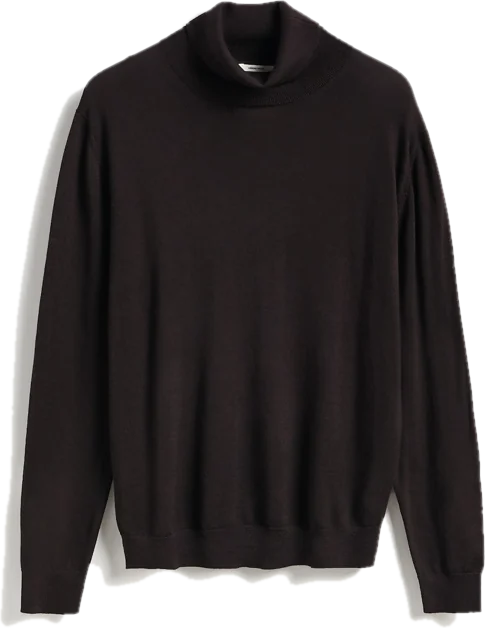
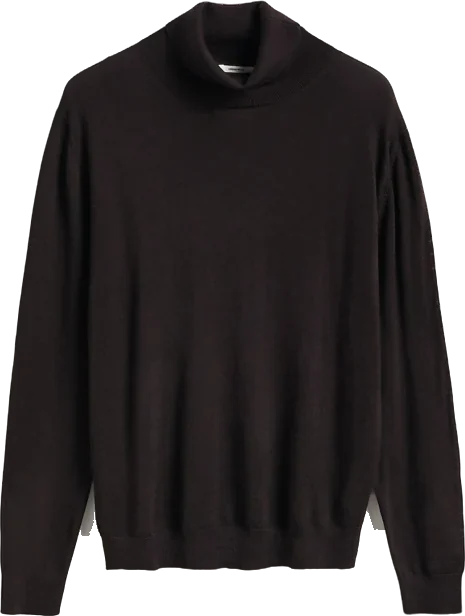
True-size flat-lay outfits and cleaner cut-outs (1.0.14)
- Outfit picture: every piece drawn at one scale from its length measurement,
  flat lay only (stacked view and tuck-in removed). Photo sizes now sync to the phone.
- Estimated lengths per garment kind (overcoat, knit, tee, shirt) in data and importer.
- Cut-outs: rembg (isnet-general-use) instead of colour flood-fill, plus gap fill for
  light fabric, backdrop-rim clean-up, speck removal and hanger removal. All 24 photos re-cut.
- Fix backspace characters in the importer's long-sleeve regex.

diff --git a/docs/index.html b/docs/index.html
@@ -62,31 +62,13 @@ select.sort{flex:none;height:44px;border-radius:99px;border:1px solid var(--line
 .empty{color:var(--mute);font-size:14px;text-align:center;padding:36px 12px;grid-column:1/-1;line-height:1.5}
 
 .stage{position:relative;width:100%;aspect-ratio:3/4.4;background:var(--stg);border-radius:20px;overflow:hidden}
-.layer{position:absolute;left:50%;transform:translateX(-50%);transition:all .3s ease;pointer-events:none}
-.layer img{height:100%;width:auto;display:block;filter:drop-shadow(0 2px 3px rgba(0,0,0,.13))}
-.stand .L-jacket{top:3%;height:40%;z-index:4}
-.stand .L-top{top:6%;height:40%;z-index:2}
-.stand:not(.nojacket) .L-top img{clip-path:inset(38% 22% 0 22%)}
-.stand .L-bottom{top:36%;height:53%;z-index:1}
-.stand.tuck .L-bottom{z-index:3}
-.stand .L-shoes{top:86%;height:11%;z-index:5}
-.stand .L-acc{bottom:4%;left:auto;right:4%;transform:none;height:16%;z-index:6}
-.flat .layer{transform:none}
-.flat .L-jacket{top:3%;left:3%;height:34%;z-index:2}
-.flat .L-top{top:20%;left:45%;height:31%;z-index:3}
-.flat.nojacket .L-top{top:4%;left:18%;height:38%}
-.flat .L-bottom{top:42%;left:8%;height:53%;z-index:1}
-.flat .L-shoes{top:78%;left:52%;height:12%;z-index:4}
-.flat .L-acc{top:56%;left:62%;height:16%;z-index:5}
-.layer.photo img{border-radius:10px;filter:none;width:100%;object-fit:cover}
+.layer{position:absolute;transition:all .3s ease;pointer-events:none}
+.layer img{width:100%;height:100%;object-fit:contain;display:block;filter:drop-shadow(0 2px 3px rgba(0,0,0,.13))}
+.layer.photo img{border-radius:10px;filter:none;object-fit:cover}
 
 .tools{display:flex;gap:8px;margin-top:10px}
 .tool{flex:1;height:44px;border-radius:99px;border:1px solid var(--line);background:var(--card);font-size:13px;font-weight:500;cursor:pointer}
-.tool.on{background:var(--ink);color:var(--on-ink);border-color:var(--ink)}
 .tool:disabled{opacity:.4;cursor:default}
-.seg{flex:1.6;display:flex;border:1px solid var(--line);border-radius:99px;background:var(--card);padding:3px;gap:2px}
-.seg button{flex:1;border:0;border-radius:99px;background:none;font-size:13px;font-weight:500;cursor:pointer;color:var(--mute)}
-.seg button[aria-pressed=true]{background:var(--ink);color:var(--on-ink)}
 
 .looks{display:grid;grid-template-columns:repeat(2,minmax(0,1fr));gap:10px}
 .look,.row,.day,.wcard,.tmini{font:inherit;color:inherit;text-align:left;border:0;width:100%;display:block}
@@ -292,10 +274,8 @@ body.building .toast{bottom:calc(80px + env(safe-area-inset-bottom))}
 
  <section class="view" id="v-builder">
   <div class="top"><div><h1 id="bTitle">New outfit</h1><p class="sub">Tap pieces to put them on.</p></div></div>
-  <div class="stage stand" id="bStage"></div>
+  <div class="stage" id="bStage"></div>
   <div class="tools">
-   <div class="seg" role="group" aria-label="Picture style"><button id="bStand" aria-pressed="true">Stacked</button><button id="bFlat" aria-pressed="false">Flat lay</button></div>
-   <button class="tool" id="bTuck" aria-pressed="false">Tuck in</button>
    <button class="tool" id="bRnd">Random</button>
   </div>
   <div class="bar" style="margin-top:12px"><div class="chips" id="bCats"></div></div>
@@ -342,7 +322,7 @@ body.building .toast{bottom:calc(80px + env(safe-area-inset-bottom))}
 <div class="toast" id="toast" role="status" aria-live="polite"><span id="toastMsg"></span><button id="toastUndo">Undo</button></div>
 
 <script>
-const APP_VERSION='1.0.13';
+const APP_VERSION='1.0.14';
 /* ===== storage ===== */
 const KEY='wardrobe-db-v2';
 const $=id=>document.getElementById(id);
@@ -394,12 +374,33 @@ const XICON='<svg viewBox="0 0 24 24" fill="none" stroke="currentColor" stroke-w
 const NOPIC='<svg class="nopic" viewBox="0 0 24 24" fill="none" stroke="currentColor" stroke-width="1.4" aria-hidden="true"><path d="M12 7a2 2 0 1 1 2-2M12 7v1.5L3 16h18l-9-7.5"/></svg>';
 function picHTML(src){const u=srcOf(src);return u?`<div class="pic ${isPhoto(src)?'photo':''}"><img src="${esc(u)}" alt="" loading="lazy"></div>`:`<div class="pic">${NOPIC}</div>`}
 
-/* ===== outfit picture: product photos stacked, no figure ===== */
+/* ===== outfit picture: product photos in a flat lay, no figure =====
+   True size: every piece is drawn at one fixed scale from its real length (the "length"
+   measurement), so an overcoat is long and a cropped jacket short in every outfit, and a new
+   piece needs no tuning. Stage is 300 x 440 units; positions are set as percentages. */
+const TYP_LEN=[[/overcoat|\bcoat\b|trench|parka|mac\b/,100],[/turtleneck|sweater|knit|jumper|cardigan|hoodie|sweatshirt/,66],[/t-shirt|\btee\b|polo|tank/,70]];
+function lengthCm(it){
+  const s=(it.sizes&&it.sizes[it.size])||{},l=+(s.length||s['total length']||s['back length']||0);if(l>0)return l;
+  if(it.cat==='shoes')return 28.5;if(it.cat==='bottom')return 104;
+  const n=(it.name||'').toLowerCase(),m=TYP_LEN.find(([rx])=>rx.test(n));return m?m[1]:it.cat==='jacket'?68:76}
+const PHOTO_AR={top:1,jacket:.8,bottom:.5,shoes:2,acc:1};
+const aspect=it=>isPhoto(it.img)?1:it.photo&&it.photo.w&&it.photo.h?it.photo.w/it.photo.h:PHOTO_AR[it.cat]||1;
+// width and height in stage units; shoe photos are side views, so their width is the shoe length (a little more for pairs)
+function trueBox(it,ppc){const a=aspect(it);if(it.cat==='shoes'){const w=lengthCm(it)*1.15*ppc;return{w,h:w/a}}const h=lengthCm(it)*ppc;return{w:h*a,h}}
 function stageHTML(items,o={}){
-  const g=k=>items[k]&&itemById(items[k]);let h='';
-  for(const k of ['bottom','top','jacket','shoes','acc']){const it=g(k);if(!it)continue;
-    const u=srcOf(it.img);if(!u)continue;h+=`<div class="layer L-${k} ${isPhoto(it.img)?'photo':''}" ${isPhoto(it.img)?'style="aspect-ratio:1"':''}><img src="${esc(u)}" alt="${esc(it.name)}"></div>`}
-  return `<div class="stage ${o.flat?'flat':'stand'} ${o.tuck?'tuck':''} ${g('jacket')?'':'nojacket'}" ${o.id?`id="${o.id}"`:''}>${h}</div>`;
+  const SW=300,SH=440,P=(v,t)=>(v/t*100).toFixed(2)+'%',g=k=>items[k]&&itemById(items[k]);let h='';
+  const put=(k,x,y,b,z)=>{const it=g(k),u=srcOf(it.img);if(u)h+=`<div class="layer L-${k} ${isPhoto(it.img)?'photo':''}" style="left:${P(x,SW)};top:${P(y,SH)};width:${P(b.w,SW)};height:${P(b.h,SH)};z-index:${z}"><img src="${esc(u)}" alt="${esc(it.name)}"></div>`};
+  const box=(k,ppc)=>g(k)&&trueBox(g(k),ppc);
+  const ppc=2,t=box('top',ppc),j=box('jacket',ppc),b=box('bottom',ppc),s=box('shoes',ppc);
+  // jacket top left, top beside it; without a jacket the top sits higher and the trousers start
+  // just under its hem. Then the whole group is centred vertically so short outfits leave no gap.
+  const by=b?(j?SH-b.h-10:Math.min(SH-b.h-10,10+(t?t.h*.8:0))):0,low=Math.max(b?by+b.h:0,j?10+j.h:0,t?(j?40:10)+t.h:0),dy=Math.max(0,(SH-10-low)/2);
+  if(b)put('bottom',20,by+dy,b,1);
+  if(j)put('jacket',10,10+dy,j,2);
+  if(t)put('top',j?SW-t.w-10:(SW-t.w)/2-30,(j?40:10)+dy,t,3);
+  if(s)put('shoes',SW-s.w-12,(b?by+b.h:low)+dy-s.h-14,s,4);
+  const a=g('acc');if(a){const ab=trueBox(a,1),k=Math.min(70/ab.h,90/ab.w);put('acc',SW-ab.w*k-12,246,{w:ab.w*k,h:ab.h*k},6)}
+  return `<div class="stage" ${o.id?`id="${o.id}"`:''}>${h}</div>`;
 }
 
 /* ===== closet ===== */
@@ -437,9 +438,9 @@ function renderToday(){
   el.hidden=false;
   const head=`<div class="today-h"><h2 id="todayH">Today</h2><small>${new Date().toLocaleDateString('en-GB',{weekday:'long',day:'numeric',month:'long'})}</small></div>`;
   if(!db.outfits.length){el.innerHTML=head+`<p class="today-hint">Put an outfit together once, then log what you wear here in one tap.</p><button class="add" data-act="newOutfit">Make an outfit</button>`;return}
-  const name=esc(o?o.name:'Outfit'),pic=e?stageHTML(piecesOf(e),{tuck:o&&o.tuck,flat:o&&o.flat}):'';
+  const name=esc(o?o.name:'Outfit'),pic=e?stageHTML(piecesOf(e)):'';
   const others=db.outfits.filter(x=>!e||x.id!==e.outfit).sort((a,b)=>lastWornOf(b.id).localeCompare(lastWornOf(a.id))||(b.created||'').localeCompare(a.created||''));
-  const strip=others.length?`<div class="strip">${others.map(x=>`<button class="tmini" data-act="wearToday" data-id="${x.id}" aria-label="Wearing ${esc(x.name)} today">${stageHTML(x.items,{tuck:x.tuck,flat:x.flat})}<span>${esc(x.name)}</span></button>`).join('')}</div>`:'';
+  const strip=others.length?`<div class="strip">${others.map(x=>`<button class="tmini" data-act="wearToday" data-id="${x.id}" aria-label="Wearing ${esc(x.name)} today">${stageHTML(x.items)}<span>${esc(x.name)}</span></button>`).join('')}</div>`:'';
   if(e&&e.worn&&!todayPick){el.innerHTML=head+`<div class="today-main worn">${pic}<div class="today-txt"><small>Logged as worn</small><b>${name}</b><div class="acts"><button class="ghost" data-act="todayChange">Change</button></div></div></div>`;return}
   if(e&&!e.worn){el.innerHTML=head+`<div class="today-main">${pic}<div class="today-txt"><small>Planned for today</small><b>${name}</b><div class="acts"><button class="add" data-act="wearPlanned">Wearing this</button></div></div></div>`+(strip&&`<div class="strip-lbl">Wearing something else? Tap it.</div>`+strip);return}
   el.innerHTML=head+`<p class="today-hint">${e?'Tap what you\'re wearing instead.':'What are you wearing? Tap it to log it.'}</p>`+strip+(e?`<button class="linkbtn" data-act="todayKeep">Keep ${name}</button>`:'');
@@ -568,7 +569,7 @@ function renderOutfits(){
   $('tagChips').innerHTML=tags.length?['all',...tags].map(t=>`<button class="chip ${t===oTag?'on':''}" data-tag="${esc(t)}">${t==='all'?'All':esc(t[0].toUpperCase()+t.slice(1))}</button>`).join(''):'';
   const shown=db.outfits.filter(o=>oTag==='all'||tagsOf(o).includes(oTag));
   $('looks').innerHTML=db.outfits.length?shown.map(o=>{const its=outfitItems(o),cost=its.reduce((s,i)=>s+(+i.price||0),0),w=outfitWears(o);
-    return `<button class="look" data-outfit="${o.id}">${stageHTML(o.items,{tuck:o.tuck,flat:o.flat})}<div class="ln">${esc(o.name)}</div><div class="lm">${w?`Worn ${w}×`:'Not worn yet'}${cost?' · '+money(cost):''}</div></button>`}).join('')
+    return `<button class="look" data-outfit="${o.id}">${stageHTML(o.items)}<div class="ln">${esc(o.name)}</div><div class="lm">${w?`Worn ${w}×`:'Not worn yet'}${cost?' · '+money(cost):''}</div></button>`}).join('')
     :`<div class="empty">No outfits yet.<br>Tap New to put one together from your closet.</div>`;
 }
 $('looks').onclick=e=>{const b=e.target.closest('[data-outfit]');if(b)outfitSheet(b.dataset.outfit)};
@@ -579,7 +580,7 @@ function outfitSheet(oid){
   const t=todayISO(),wornToday=!!(db.plan[t]&&db.plan[t].worn&&db.plan[t].outfit===oid);
   const next=Object.entries(db.plan).filter(([d,e])=>e.outfit===oid&&!e.worn&&d>=t).map(([d])=>d).sort()[0];
   openSheet(`<h2>${esc(o.name)}</h2><div class="meta">${o.tags?esc(o.tags)+' · ':''}${its.length} pieces</div>
-   ${stageHTML(o.items,{tuck:o.tuck,flat:o.flat})}
+   ${stageHTML(o.items)}
    <div class="stats3"><div><small>Pieces cost</small><b>${nP?money(cost):'–'}</b>${nP&&nP<its.length?`<em>${nP} of ${its.length} priced</em>`:''}</div><div><small>Worn</small><b>${w}×</b></div><div><small>Next planned</small><b style="font-size:13px">${next?fmtDate(next):'–'}</b></div></div>
    <div class="btns">${wornToday?'<button class="btn" disabled>Worn today</button>':`<button class="btn" data-act="wearOutfit" data-id="${oid}">Wore it today</button>`}<button class="btn sec" data-act="planOutfit" data-id="${oid}">Plan a day</button></div>
    <div class="lbl">Pieces</div>${its.map(i=>`<button class="row" data-item="${i.id}">${picHTML(i.img)}<div><b>${esc(i.name)}</b><small>${CAT1[i.cat]} · ${money(i.price)} · worn ${wearsOf(i.id).n}×</small></div></button>`).join('')}
@@ -590,16 +591,14 @@ function outfitSheet(oid){
 let B=null,bCat='top';
 function openBuilder(oid){
   const o=oid&&db.outfits.find(x=>x.id===oid);
-  B=o?{id:o.id,items:{...o.items},tuck:!!o.tuck,flat:!!o.flat}:{id:null,items:{},tuck:false,flat:false};B.dirty=false;
+  B=o?{id:o.id,items:{...o.items}}:{id:null,items:{}};B.dirty=false;
   if(!o)for(const k of ['top','bottom','shoes']){const l=db.items.filter(i=>i.cat===k);if(l.length)B.items[k]=l[0].id}
   $('bTitle').textContent=o?'Edit outfit':'New outfit';$('bName').value=o?o.name:'';$('bTags').value=o?o.tags||'':'';$('bErr').textContent='';
   bCat=SLOTS.find(k=>db.items.some(i=>i.cat===k))||'top';
   show('builder');renderBuilder();
 }
 function renderBuilder(){
-  $('bStage').outerHTML=stageHTML(B.items,{tuck:B.tuck,flat:B.flat,id:'bStage'});
-  $('bStand').setAttribute('aria-pressed',!B.flat);$('bFlat').setAttribute('aria-pressed',B.flat);
-  $('bTuck').classList.toggle('on',B.tuck&&!B.flat);$('bTuck').setAttribute('aria-pressed',B.tuck&&!B.flat);$('bTuck').disabled=B.flat;
+  $('bStage').outerHTML=stageHTML(B.items,{id:'bStage'});
   $('bName').placeholder=autoName(B.items);
   $('bCats').innerHTML=SLOTS.map(k=>{const p=B.items[k]&&itemById(B.items[k]);return `<button class="chip ${k===bCat?'on':''}" data-bcat="${k}" aria-pressed="${k===bCat}" aria-label="${CATS[k]}${p?', picked':''}">${CATS[k]}${p?'<svg class="ck" viewBox="0 0 24 24" fill="none" stroke="currentColor" stroke-width="2.4" stroke-linecap="round" stroke-linejoin="round" aria-hidden="true"><path d="M5 12.5l4.5 4.5L19 7"/></svg>':''}</button>`}).join('');
   const list=db.items.filter(i=>i.cat===bCat);
@@ -610,16 +609,13 @@ function renderBuilder(){
 const bChanged=()=>{B.dirty=true;$('bErr').textContent='';renderBuilder()};
 $('bCats').onclick=e=>{const b=e.target.closest('[data-bcat]');if(b){bCat=b.dataset.bcat;renderBuilder();$('bGrid').scrollLeft=0}};
 $('bGrid').onclick=e=>{const b=e.target.closest('[data-pick]');if(!b)return;const id=b.dataset.pick;if(id)B.items[bCat]=id;else delete B.items[bCat];bChanged()};
-$('bStand').onclick=()=>{if(B.flat){B.flat=false;bChanged()}};
-$('bFlat').onclick=()=>{if(!B.flat){B.flat=true;bChanged()}};
-$('bTuck').onclick=()=>{B.tuck=!B.tuck;bChanged()};
 $('bName').oninput=$('bTags').oninput=()=>{B.dirty=true};
 $('bRnd').onclick=()=>{for(const k of ['top','bottom','shoes','jacket']){const l=db.items.filter(i=>i.cat===k);if(!l.length)continue;
   if(k==='jacket'&&Math.random()<.35){delete B.items.jacket;continue}B.items[k]=l[Math.floor(Math.random()*l.length)].id}bChanged()};
 $('bSave').onclick=()=>{
   const items=Object.fromEntries(Object.entries(B.items).filter(([k,v])=>v&&itemById(v)));
   if(Object.keys(items).length<2){$('bErr').textContent='Pick at least two pieces.';return}
-  const data={items,tuck:B.tuck,flat:B.flat,name:$('bName').value.trim()||autoName(items),tags:$('bTags').value.trim()};
+  const data={items,name:$('bName').value.trim()||autoName(items),tags:$('bTags').value.trim()};
   let oid=B.id;
   if(oid)Object.assign(db.outfits.find(o=>o.id===oid),data);else{oid='o-'+uid();db.outfits.unshift({id:oid,created:new Date().toISOString(),...data})}
   if(!save())return;B.dirty=false;
@@ -643,7 +639,7 @@ function renderPlan(){
   $('cal').innerHTML=['Mon','Tue','Wed','Thu','Fri','Sat','Sun'].map(d=>`<div class="dow" aria-hidden="true">${d[0]}</div>`).join('')+cells.map(([y,m,d,out])=>{
     const k=isoOf(y,m,d),e=db.plan[k],o=e&&db.outfits.find(x=>x.id===e.outfit);
     const lbl=fmtDate(k)+(k===t?', today':'')+(e?(e.worn?', worn: ':', planned: ')+(o?o.name:'outfit'):'');
-    return `<button class="day ${out?'out':''} ${k===t?'today':''} ${e?'planned':''} ${e&&e.worn?'worn':''}" data-day="${k}" aria-label="${esc(lbl)}"${k===t?' aria-current="date"':''}><span class="dn">${d}</span><div class="mini">${e?stageHTML(piecesOf(e),{tuck:o&&o.tuck,flat:o&&o.flat}):''}</div>${e?'<span class="wd"></span>':''}</button>`}).join('');
+    return `<button class="day ${out?'out':''} ${k===t?'today':''} ${e?'planned':''} ${e&&e.worn?'worn':''}" data-day="${k}" aria-label="${esc(lbl)}"${k===t?' aria-current="date"':''}><span class="dn">${d}</span><div class="mini">${e?stageHTML(piecesOf(e)):''}</div>${e?'<span class="wd"></span>':''}</button>`}).join('');
   const up=Object.entries(db.plan).filter(([d,e])=>d>=t&&!e.worn).sort((a,b)=>a[0].localeCompare(b[0])).slice(0,5);
   $('upcoming').innerHTML=up.length?`<div class="sect"><span>Coming up</span></div>`+up.map(([d,e])=>{const o=db.outfits.find(x=>x.id===e.outfit),f=(e.items||[]).map(itemById).filter(i=>i&&i.img).sort((a,b)=>(a.cat==='jacket'?0:1)-(b.cat==='jacket'?0:1))[0];
     return `<button class="row" data-day="${d}">${picHTML(f&&f.img)}<div><b>${esc(o?o.name:'Outfit')}</b><small>${fmtDate(d)}</small></div></button>`}).join(''):'';
@@ -656,7 +652,7 @@ function daySheet(day,choose){
   const e=db.plan[day],o=e&&db.outfits.find(x=>x.id===e.outfit),past=day<=todayISO();
   if(e&&!choose){
     openSheet(`<h2>${fmtDate(day)}</h2><div class="meta">${e.worn?'Worn':'Planned'}${o?' · '+esc(o.name):''}</div>
-     ${stageHTML(piecesOf(e),{tuck:o&&o.tuck,flat:o&&o.flat})}
+     ${stageHTML(piecesOf(e))}
      <div class="btns">${!e.worn&&past?`<button class="btn" data-act="markWorn" data-day="${day}">Mark as worn</button>`:''}
       ${e.worn?`<button class="btn sec" data-act="unmarkWorn" data-day="${day}">Not worn</button>`:''}
       <button class="btn sec" data-act="changeDay" data-day="${day}">Change outfit</button></div>
@@ -665,7 +661,7 @@ function daySheet(day,choose){
   }
   if(!db.outfits.length){openSheet(`<h2>${fmtDate(day)}</h2><div class="empty">Save an outfit first, then plan it here.</div><div class="btns"><button class="btn" data-act="newOutfit">Create an outfit</button></div>`);return}
   openSheet(`<h2>${fmtDate(day)}</h2><div class="meta">${day<todayISO()?'Which outfit did you wear? It counts as worn.':day===todayISO()?"Pick today's outfit. Mark it as worn once you've worn it.":'Pick an outfit for this day.'}</div>
-   <div class="pick">${db.outfits.map(x=>`<button class="look" data-act="setDay" data-day="${day}" data-id="${x.id}">${stageHTML(x.items,{tuck:x.tuck,flat:x.flat})}<div class="ln">${esc(x.name)}</div></button>`).join('')}</div>`);
+   <div class="pick">${db.outfits.map(x=>`<button class="look" data-act="setDay" data-day="${day}" data-id="${x.id}">${stageHTML(x.items)}<div class="ln">${esc(x.name)}</div></button>`).join('')}</div>`);
 }
 function setDay(day,oid,worn){const o=db.outfits.find(x=>x.id===oid);if(!o)return;
   db.plan[day]={outfit:oid,items:Object.values(o.items).filter(id=>itemById(id)),worn:worn??(day<todayISO())};save()}
@@ -929,8 +925,8 @@ async function boot(){
   const seen=new Set(db.seen||[]);
   if(items)for(const s of items.items.filter(i=>i.owned)){
     const cur=itemById(s.id);
-    if(cur){if(!cur.imgEdited)cur.img=s.img;if(!cur.sizesEdited)cur.sizes=s.sizes;if(!cur.url)cur.url=s.url}
-    else if(!seen.has(s.id)){db.items.push({id:s.id,name:s.name,brand:s.brand,cat:s.cat,img:s.img,url:s.url,size:s.size,sizes:s.sizes,
+    if(cur){if(!cur.imgEdited){cur.img=s.img;cur.photo=s.photo}if(!cur.sizesEdited)cur.sizes=s.sizes;if(!cur.url)cur.url=s.url}
+    else if(!seen.has(s.id)){db.items.push({id:s.id,name:s.name,brand:s.brand,cat:s.cat,img:s.img,photo:s.photo,url:s.url,size:s.size,sizes:s.sizes,
       color:s.color||'',price:s.price??null,bought:s.bought||'',store:s.store||'',notes:s.notes||'',added:s.added||new Date().toISOString(),...(s.wears?{extraWears:s.wears}:{})});seen.add(s.id)}
   }
   if(wish)for(const s of wish.items||[])if(!db.wishlist.some(w=>w.id===s.id)&&!seen.has(s.id)){db.wishlist.push({added:new Date().toISOString(),priority:'nice',...s});seen.add(s.id)}

diff --git a/docs/sw.js b/docs/sw.js
@@ -1,6 +1,6 @@
 // Offline copy of the app. tools/release.cjs bumps VERSION and refreshes FILES on every release,
 // which is what makes phones notice a new version.
-const VERSION = 'wardrobe-v1.0.13';
+const VERSION = 'wardrobe-v1.0.14';
 // FILES-START
 const FILES = ["./","data/items.json","data/wishlist.json","icon-192.png","icon-512.png","index.html","manifest.webmanifest"];
 // FILES-END

diff --git a/tools/garment.py b/tools/garment.py
@@ -58,23 +58,110 @@ def category(*texts):
     return 'top'
 
 
+_session = None
+
+
 def cutout(img_bytes, tol=14, white_tol=2, max_side=700):
-    """Remove a plain studio background by flood-filling from the image edges.
-    Returns (RGBA image, share of the image that was background)."""
+    """Cut the garment out of its photo. Returns (RGBA image, share of the image that was background).
+    Uses a background-removal model (rembg, isnet-general-use; free, runs on this computer), which
+    tells a garment from its soft studio shadow and white fabric from a white backdrop. Falls back
+    to the old colour flood-fill when rembg isn't installed."""
+    global _session
+    try:
+        from rembg import remove, new_session
+    except ImportError:
+        return cutout_flood(img_bytes, tol, white_tol, max_side)
+    if _session is None:
+        _session = new_session('isnet-general-use')
     im = Image.open(io.BytesIO(img_bytes)).convert('RGB')
     im.thumbnail((1100, 1100))
-    a = np.asarray(im).astype(int)
+    rgb = np.asarray(im).astype(float)
+    a = np.asarray(remove(im, session=_session).split()[-1]).astype(float)
+    # firm up the edge: faint haze goes, nearly solid becomes solid
+    a = np.clip((a - 25) * 255 / 205, 0, 255)
+    # light fabric on a light backdrop can still lose a bite (a sleeve, a shoulder): fill gaps inside
+    # the garment's outline where the colour flood-fill says it is not backdrop either and the pixel
+    # looks more like the garment than the backdrop (so a shadowed gap under a dark tee's sleeve
+    # stays open). Only well inside the outline, so no backdrop rim comes back.
+    solid0 = a > 200
+    if solid0.any():
+        backdrop = np.median(np.concatenate([rgb[0], rgb[-1], rgb[:, 0], rgb[:, -1]]), axis=0)
+        like = np.abs(rgb - np.median(rgb[solid0], axis=0)).max(2) < np.abs(rgb - backdrop).max(2)
+        inside = ndimage.binary_erosion(ndimage.binary_closing(a > 40, np.ones((25, 25)), border_value=0), iterations=4)
+        a = np.maximum(a, 255 * (inside & like & (_flood_bg(rgb, tol, white_tol) == 0)))
+
+    a = _drop_hanger(rgb, a)
+
+    # keep the garment (and the second shoe of a pair); drop specks and detached shadow bits
+    labels, n = ndimage.label(a > 128)
+    if n > 1:
+        sizes = ndimage.sum(np.ones_like(a), labels, range(1, n + 1))
+        keep = np.isin(labels, 1 + np.where(sizes >= sizes.max() * 0.04)[0])
+        a[~ndimage.binary_dilation(keep, iterations=3)] = 0
+
+    # edge pixels still carry the old backdrop colour (a light outline on dark clothes):
+    # give them the colour of the fabric just inside the edge
+    solid = (a >= 250).astype(float)
+    num = np.stack([ndimage.gaussian_filter(rgb[..., c] * solid, 3) for c in range(3)], -1)
+    den = ndimage.gaussian_filter(solid, 3)[..., None]
+    edge = ((a > 0) & (a < 250))[..., None] & (den > 0.02)
+    rgb = np.where(edge, num / np.maximum(den, 1e-6), rgb)
+    a[(a < 250) & (den[..., 0] <= 0.02)] = 0   # stray edge dots with no fabric next to them
+
+    rgba = Image.fromarray(np.dstack([rgb, a]).round().clip(0, 255).astype('uint8'), 'RGBA')
+    rgba = rgba.crop(rgba.split()[-1].point(lambda v: 255 if v > 40 else 0).getbbox())
+    rgba.thumbnail((max_side, max_side))
+    return rgba, float((a < 128).mean())
+
+
+def _drop_hanger(rgb, a):
+    """Remove a wooden hanger poking out above a collar: wood-coloured pixels in the top part of
+    the cut-out that touch its top edge and clearly differ from the garment's own colour (so a
+    brown coat keeps its collar). Lettering and highlights on the hanger go with it."""
+    on = a > 128
+    rows = np.where(on.any(1))[0]
+    if not len(rows):
+        return a
+    top, h = rows[0], rows[-1] - rows[0]
+    body = rgb[top + int(h * .3):top + int(h * .6)][on[top + int(h * .3):top + int(h * .6)]]
+    if not len(body):
+        return a
+    garment = np.median(body, axis=0)
+    r, mx = rgb[..., 0], rgb.max(2)
+    wood = (r - rgb[..., 1:].max(2) > 20) & (mx > 40) & (mx < 245)   # reddish-brown, from dark to pale
+    far = np.abs(rgb - garment).max(2) > 60
+    zone = np.zeros_like(on)
+    zone[top:top + int(h * .15)] = True
+    cand = wood & far & on & zone
+    blob = ndimage.binary_fill_holes(ndimage.binary_closing(cand, iterations=5)) & on & zone
+    labels, n = ndimage.label(blob)
+    hit = set(np.unique(labels[top:top + 8])) - {0}
+    if not hit:
+        return a
+    gone = ndimage.binary_dilation(np.isin(labels, list(hit)), iterations=3) & zone
+    a = a.copy()
+    a[gone] = 0
+    return a
+
+
+def _flood_bg(a, tol, white_tol):
+    """Backdrop mask: backdrop-coloured regions that touch the image edge."""
     H, W, _ = a.shape
     border = np.concatenate([a[0], a[-1], a[:, 0], a[:, -1]])
     bg = np.median(border, axis=0)
     # light garments on light backgrounds need a much tighter tolerance
     centre = a[H // 3:2 * H // 3, W // 3:2 * W // 3].mean()
     t = white_tol if centre > 215 else tol
-    cand = np.abs(a - bg).max(axis=2) <= t
-    # background = background-coloured regions that touch the image edge
-    labels, _ = ndimage.label(cand)
+    labels, _ = ndimage.label(np.abs(a - bg).max(axis=2) <= t)
     edge = np.unique(np.concatenate([labels[0], labels[-1], labels[:, 0], labels[:, -1]]))
-    mask = np.isin(labels, edge[edge > 0])
+    return np.isin(labels, edge[edge > 0])
+
+
+def cutout_flood(img_bytes, tol=14, white_tol=2, max_side=700):
+    """Old method: remove a plain studio background by flood-filling from the image edges."""
+    im = Image.open(io.BytesIO(img_bytes)).convert('RGB')
+    im.thumbnail((1100, 1100))
+    mask = _flood_bg(np.asarray(im).astype(int), tol, white_tol)
     alpha = Image.fromarray(((~mask) * 255).astype('uint8')).filter(ImageFilter.MinFilter(3)).filter(ImageFilter.GaussianBlur(1))
     rgba = im.convert('RGBA')
     rgba.putalpha(alpha)

diff --git a/tools/import_items.py b/tools/import_items.py
@@ -35,6 +35,9 @@ TYPICAL = {
     'bottom': {'length': 104, 'waist': 82, 'front rise': 29, 'inseam': 78},
     'shoes': {'length': 29},
 }
+# the outfit picture draws every piece at true size from its length, so estimate that per kind of garment
+KIND_LENGTH = [(r'overcoat|\bcoat\b|trench|parka', 100), (r'turtleneck|sweater|knit|jumper|cardigan|hoodie|sweatshirt', 66),
+               (r't-shirt|\btee\b|polo|tank', 70), (r'shirt', 75)]
 SHORTS = {'length': 50, 'waist': 82, 'front rise': 28, 'inseam': 20}
 COLOURS = {'black': '#1f1f1f', 'white': '#f2f0ea', 'off-white': '#ece6d6', 'ecru': '#e6dcc6', 'cream': '#ebe2cc',
            'navy': '#1f2a40', 'indigo': '#26324f', 'blue': '#3d5f8f', 'light blue': '#a9c1dc', 'denim': '#3c5476',
@@ -253,7 +256,7 @@ def main(path, wishlist=False):
                     notes.append('photo taken from the page preview, check it is the item and not a model')
         placeholder_used = rgba is None
         if placeholder_used:
-            long_sl = bool(re.search(r'sweater|sweatshirt|hoodie|jumper|knit|long.sleeve|shirt|oxford|flannel|jacket|coat|cardigan|overshirt', title, re.I)) and not re.search(r't-?shirt|tee', title, re.I)
+            long_sl = bool(re.search(r'sweater|sweatshirt|hoodie|jumper|knit|long.sleeve|shirt\b|oxford|flannel|jacket|coat|cardigan|overshirt', title, re.I)) and not re.search(r't-?shirt|\btee\b', title, re.I)
             rgba = placeholder(cat, colour_of(title), is_shorts, long_sl)
             notes.append('placeholder shape; add a photo for the real look')
         rgba.thumbnail((700, 700))
@@ -271,6 +274,9 @@ def main(path, wishlist=False):
             sizes = {size or 'typical': dict(SHORTS if is_shorts else TYPICAL[cat])}
             size = size or 'typical'
             est = True
+            if cat in ('top', 'jacket'):
+                sizes[size]['length'] = next((l for rx, l in KIND_LENGTH if re.search(rx, title, re.I)), sizes[size]['length'])
+            notes.append('measurements are typical guesses, length %s cm' % sizes[size]['length'])
         if size and size not in sizes:
             match = [k for k in sizes if k.lower().replace(' ', '') == size.lower().replace(' ', '')]
             if match:

diff --git a/PRODUCT.md b/PRODUCT.md
@@ -34,7 +34,7 @@ A private, free, single-user closet that lives on his own phone: no account, no 
 ## Capabilities and Constraints
 
 - Tabs: Closet, Outfits (with builder), Plan (calendar), Wishlist, Insights.
-- Outfit picture: real product cut-outs stacked or in a flat lay. No avatar, mannequin or body figure (tried and rejected). No AI try-on (tried, results looked bad).
+- Outfit picture: real product cut-outs in a flat lay, every piece at true size from its length measurement. Stacked view and tuck-in were tried and dropped. No avatar, mannequin or body figure (tried and rejected). No AI try-on (tried, results looked bad).
 - Single static HTML file in `docs/`, vanilla JS, no build step, hosted on GitHub Pages. Data in localStorage, own photos in IndexedDB, offline via service worker. Every release goes through `node tools/release.cjs "note"` so the phone shows an update notice.
 - Everything must stay free to run.
 - No sync between devices; backups are exported files.
